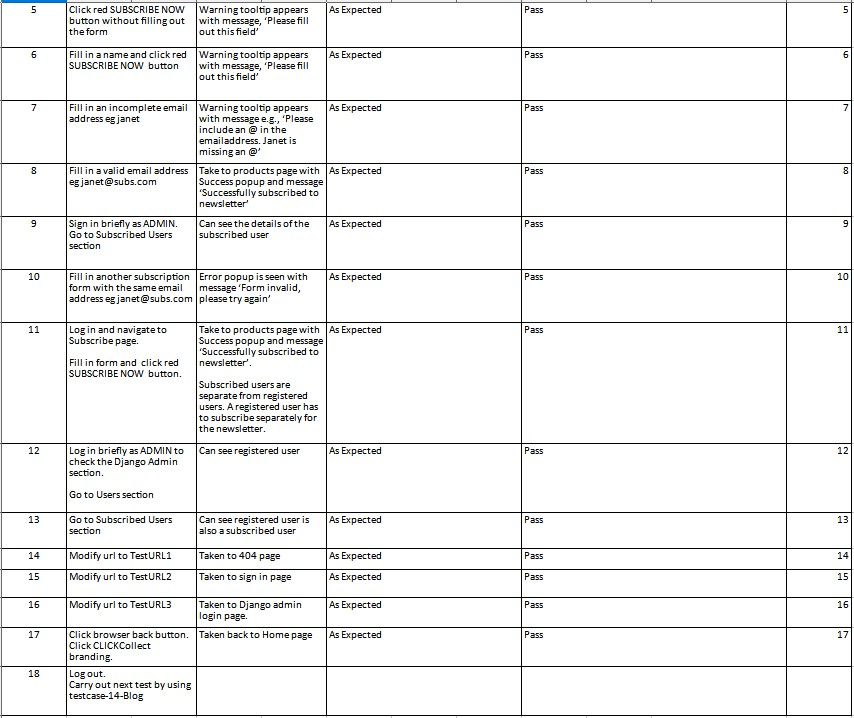
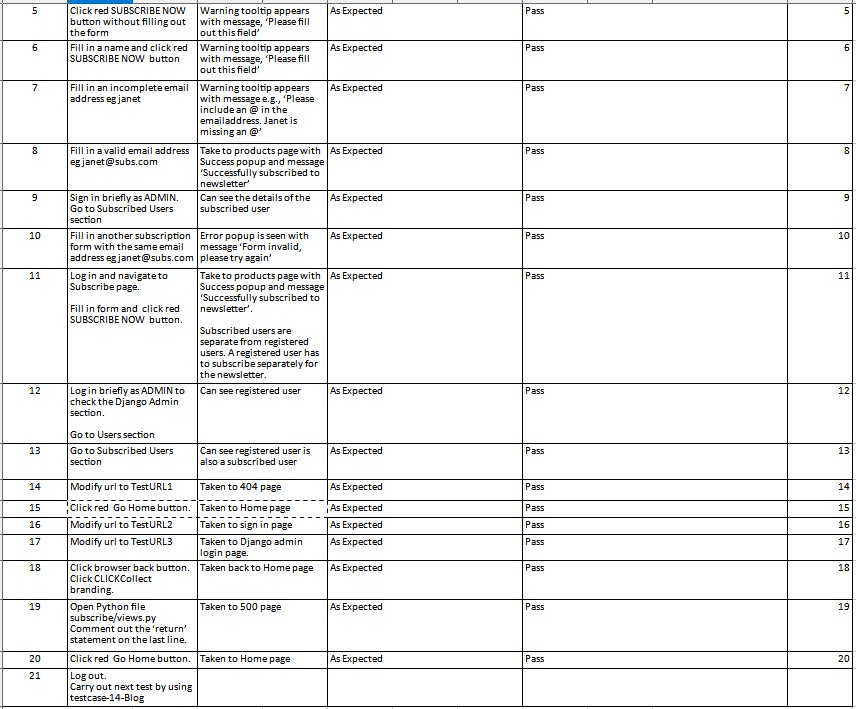
Add 500 error test to subscribe testcase

diff --git a/TESTING.md b/TESTING.md
@@ -982,6 +982,15 @@ Due to having exceeded 85% of the monthly usage limit for the S3 AWS Free Tier i
     - Step 17
     <h2 align="left"><img src="docs/testing/testcases/subscribe-17.jpg"></h2>
 
+    - Step 18
+    <h2 align="left"><img src="docs/testing/testcases/subscribe-18.jpg"></h2>
+
+    - Step 19
+    <h2 align="left"><img src="docs/testing/testcases/subscribe-19.jpg"></h2>
+
+    - Step 20
+    <h2 align="left"><img src="docs/testing/testcases/subscribe-20.jpg"></h2>
+
 ---
 
 #### Blog Pages
